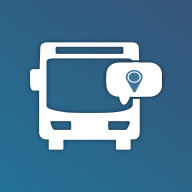
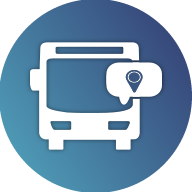
2026-05 Feature Update for NRFZ

diff --git a/buszy/index.html b/buszy/index.html
@@ -187,11 +187,17 @@
         text-decoration: underline;
     }
 
-    body.dark-mode #did-you-mean { color: #aaa; }
-    body.dark-mode #did-you-mean a { color: #a8e63a; }
+    body.dark-mode #did-you-mean {
+        color: #aaa;
+    }
+
+    body.dark-mode #did-you-mean a {
+        color: #a8e63a;
+    }
 
     /* Cover Search Wrapper */
-    .cover-search-wrapper {        background: transparent;
+    .cover-search-wrapper {
+        background: transparent;
         padding: 0;
         padding-top: 40px;
         max-width: 100%;
@@ -602,6 +608,10 @@
         font-size: 20px;
     }
 
+    .logo {
+        border-radius: 50% !important;
+    }
+
     @media (max-width: 768px) {
         #cv-bat {
             height: 50vh;
@@ -748,7 +758,6 @@
             color: #fff;
             transition: width 0.1s ease;
         }
-
 
         .category-tab {
             padding: 8px 12px;
@@ -1091,7 +1100,7 @@
                     // Re-run after data loads in case input was already restored
                     if (searchInput.value) updateDidYouMean(searchInput.value);
                 })
-                .catch(() => {});
+                .catch(() => { });
 
             // Restore service number from sessionStorage if it exists (for back navigation)
             const savedService = sessionStorage.getItem('lastServiceSearch');